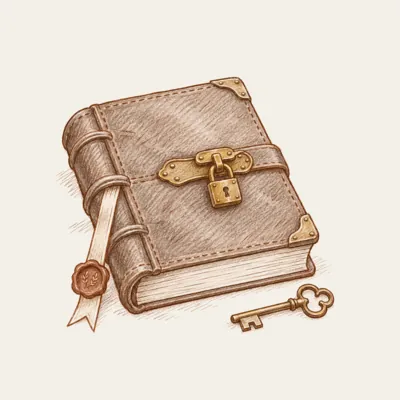
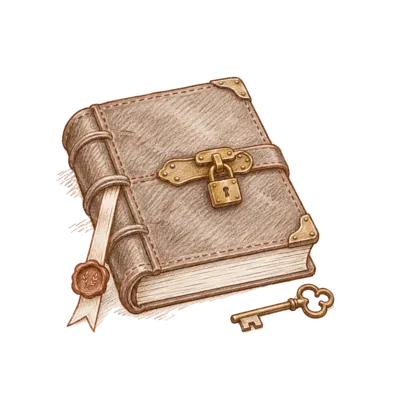
Art: transparent BiRefNet cut-outs in their real colours instead of inverted blending; drawings sit on the page in both themes
Claude-Session: https://claude.ai/code/session_018FT5nowQ6S8AfgwKZvpJeF

diff --git a/app/components/LandingArt.vue b/app/components/LandingArt.vue
@@ -1,5 +1,5 @@
 <script setup lang="ts">
-// Pencil-and-ink illustrations on linen paper (public/art, scripts/brand/README.md); the linen ground is blended away (see style).
+// Pencil-and-ink illustrations, cut out of their paper ground (public/art, scripts/brand/README.md).
 defineProps<{ name: string, alt: string, size?: number, eager?: boolean }>()
 </script>
 
@@ -11,10 +11,6 @@ defineProps<{ name: string, alt: string, size?: number, eager?: boolean }>()
 </template>
 
 <style scoped>
-/* The art is ink on a linen ground. Instead of a paper plate, the ground is blended away: lifted to white and multiplied
-   in light mode; in dark mode lifted, inverted with its hue kept (so walnut ink becomes warm chalk) and screened, so the
-   ground turns black and vanishes into the page. Only the drawing remains, in both themes. */
-.landing-art { display: block; width: 100%; height: auto; aspect-ratio: 1; filter: brightness(1.16); mix-blend-mode: multiply; }
-@media screen and (prefers-color-scheme: dark) { :root:not([data-theme=light]) .landing-art { filter: brightness(1.16) invert(1) hue-rotate(180deg); mix-blend-mode: screen; } }
-:root[data-theme=dark] .landing-art { filter: brightness(1.16) invert(1) hue-rotate(180deg); mix-blend-mode: screen; }
+/* Transparent cut-outs (scripts/brand/README.md): the drawing sits straight on the page in both themes. */
+.landing-art { display: block; width: 100%; height: auto; aspect-ratio: 1; }
 </style>

diff --git a/scripts/brand/README.md b/scripts/brand/README.md
@@ -14,7 +14,8 @@ Pencil-and-ink spots and one hero, generated with **OmniRoute images** (`POST ht
 Transparent backgrounds work (`background: "transparent"`), but the model draws a soft white glow into the alpha, which shows as a halo on the dark theme. So every image is drawn on the flat linen paper colour, and `LandingArt.vue` shows it on a linen plate of the same colour in both themes (slightly dimmed in dark).
 
 1. Generate: `OMNIROUTE_KEY="$(pass show <secret-entry> | head -1)" node scripts/brand/generate-art.mjs <source dir> [name…]`. Sources are PNG, 1254×1254; keep them outside `public/`. The gateway gives up after 30 s without a response and the script retries each image three times; long, busy prompts time out more often (the hero prompt was shortened for that reason).
-2. Optimise: `node scripts/brand/optimise-art.mjs <source dir>`. ImageMagick flood-fills the background from the four corners to exactly `#f4f0e8` (3% fuzz), resizes (hero 960px, spots 400px: twice their largest display size) and writes WebP quality 80. No PNG fallbacks: every supported browser reads WebP.
+2. Cut out: send each source to BiRefNet (`POST https://models.example/v1/images/edits`, multipart `model=birefnet`, `image=@<file>`, `response_format=b64_json`; homelab, no key) and save the transparent PNGs in their own folder. The drawings then sit on the page in both themes with no paper plate.
+3. Optimise: `node scripts/brand/optimise-art.mjs <cut-out dir>`. Keeps the alpha (a source without alpha falls back to flood-filling its linen ground), resizes (hero 960px, spots 400px: twice their largest display size) and writes WebP quality 82 with alpha quality 90. No PNG fallbacks: every supported browser reads WebP.
 
 ## Product screenshots (`public/shots/*.webp`)
 
